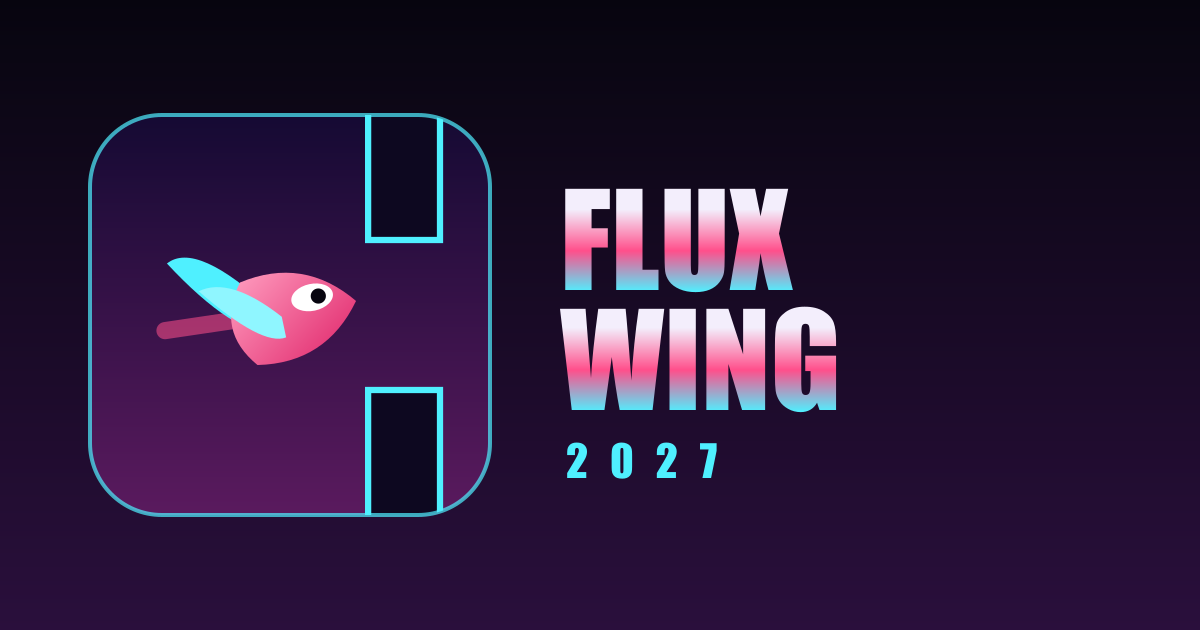
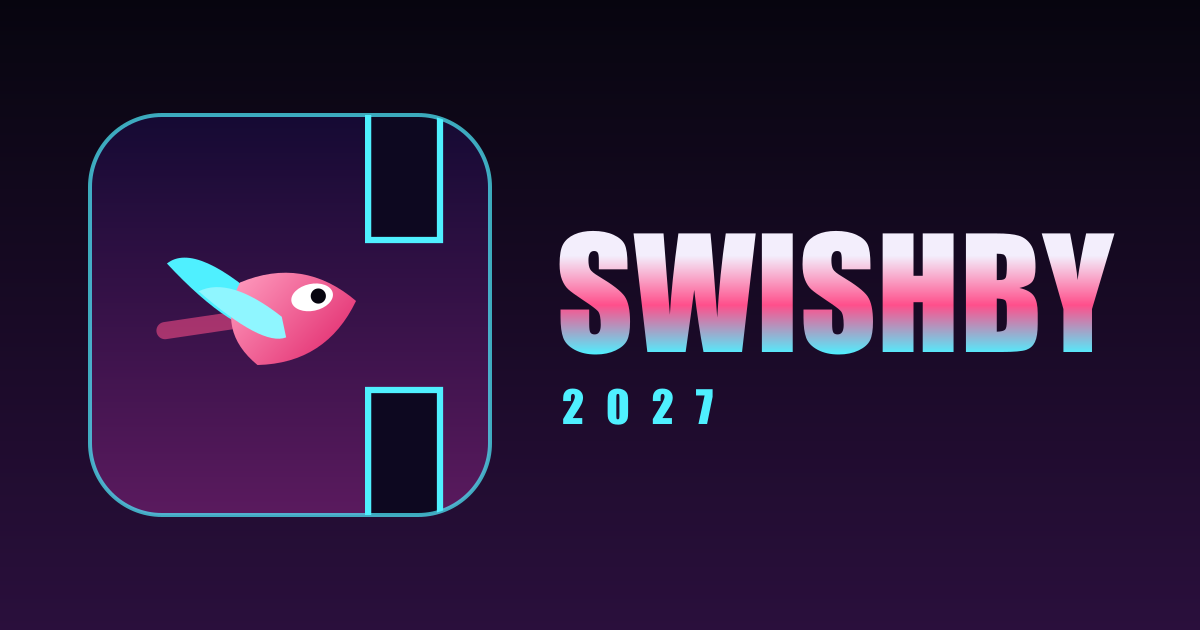
feat: the game is now called SWISHBY
Title logo, page title, share title and image, install name, the canvas label and the pass name in the shop (ko, en, ja) carry the new name. Saved data keys (fw27_*), the daily seed, the Supabase names and the page address are unchanged, so players keep their progress and today's course.

Changed region(s): [[0.4625, 0.3016, 0.925, 0.754]]

diff --git a/index.html b/index.html
@@ -1,12 +1,12 @@
 <!doctype html><html lang="ko"><head><meta charset=utf8><meta name=viewport content="width=device-width,initial-scale=1,viewport-fit=cover"><style>:root{color-scheme:light;box-sizing:border-box;padding-top:env(safe-area-inset-top,0px);padding-bottom:env(safe-area-inset-bottom,0px)}html{scroll-padding-top:env(safe-area-inset-top,0px)}body{margin:0;padding:0;font:14px -apple-system,BlinkMacSystemFont,sans-serif;background:#faf9f5;color:#141413}img{max-width:100%}[hidden]:not([hidden=until-found i]){display:none!important}</style></head><body>
-<title>Flux Wing 2027</title>
+<title>SWISHBY 2027</title>
 <meta name="description" content="탭 한 번으로 나는 원터치 비행 게임. 게이트를 아슬아슬하게 스쳐 콤보를 쌓고, 대시로 뚫고, 랭크 대전과 시즌에 도전하세요.">
 <meta name="theme-color" content="#07050f">
 <link rel="manifest" href="manifest.webmanifest">
 <link rel="icon" href="icon.svg" type="image/svg+xml">
 <link rel="apple-touch-icon" href="apple-touch-icon.png">
 <meta property="og:type" content="website">
-<meta property="og:title" content="Flux Wing 2027">
+<meta property="og:title" content="SWISHBY 2027">
 <meta property="og:description" content="탭 한 번으로 나는 원터치 비행 게임. 스치면 콤보, 차면 대시. 랭크 대전과 시즌.">
 <meta property="og:url" content="https://breton5797.github.io/fluxwing/">
 <meta property="og:image" content="https://breton5797.github.io/fluxwing/og.png">
@@ -122,7 +122,7 @@ select.ghost option{background:#140e26;color:var(--ink)}
 /* menu: logo animation, start button, mode pair */
 .logowrap{position:relative;animation:float 4s ease-in-out infinite}
 .logo{position:relative;background-size:100% 100%}
-.logo::after{content:"FLUX\A WING";white-space:pre;position:absolute;inset:0;background:linear-gradient(105deg,transparent 35%,rgba(255,255,255,.85) 50%,transparent 65%);background-size:250% 100%;-webkit-background-clip:text;background-clip:text;color:transparent;animation:shine 3.2s ease-in-out infinite;pointer-events:none}
+.logo::after{content:"SWISHBY";white-space:pre;position:absolute;inset:0;background:linear-gradient(105deg,transparent 35%,rgba(255,255,255,.85) 50%,transparent 65%);background-size:250% 100%;-webkit-background-clip:text;background-clip:text;color:transparent;animation:shine 3.2s ease-in-out infinite;pointer-events:none}
 .logo-txt{display:block}
 @keyframes shine{0%{background-position:150% 0}60%,100%{background-position:-60% 0}}
 @keyframes float{50%{transform:translateY(-6px)}}
@@ -284,7 +284,7 @@ button.wpill:focus-visible{outline:2px solid var(--cool);outline-offset:2px}
 </style>
 
 <div id="stage">
-  <canvas id="c" aria-label="Flux Wing"></canvas>
+  <canvas id="c" aria-label="SWISHBY"></canvas>
 
   <div class="wallet" id="wallet">
     <span class="wpill" id="wLv">Lv 1 <span class="lvbar"><i id="wXp" style="width:0%"></i></span></span>
@@ -305,7 +305,7 @@ button.wpill:focus-visible{outline:2px solid var(--cool);outline-offset:2px}
 
   <div class="overlay" id="menu">
     <div class="logowrap">
-      <div class="logo">FLUX<br>WING</div>
+      <div class="logo">SWISHBY</div>
       <div class="year">2027</div>
     </div>
     <p class="tag" data-i18n="tag"></p>
@@ -626,13 +626,13 @@ const I18N_D_KEYS = ['r_common','r_epic','r_mythic','r_legendary','r_mochi','r_a
 const I18N_D = {
 ko:['기본','에픽','미식','레전더리','힐링형','철벽형','불사형','암살형',
  '경험치 2배. 가까운 오브를 자동으로 끌어당긴다.','실드 1개를 달고 출발(최대 3개). 게이트 40개마다 실드 1개 재충전.','한 판에 한 번 불꽃 속에서 부활한다. 피버가 7콤보에서 시작된다.','대시 게이지가 가득 찬 채 출발. 대시가 1.5배 길고 대시 관통 점수 2배.',
- '상점','테스트 빌드: 실제 결제 없이 바로 지급됩니다.','플럭스 패스 · 시즌 1','ZERO 유닛 + 젬 150 + 크레딧 2,000 · 4주','스타터 팩','MOCHI + 젬 100 · 첫 7일 한 번만','젬 {n}개','보유 중','체험하기 (오늘 1회)','오늘 체험을 이미 사용했어요','플럭스 패스 전용','재화가 부족해요','{u} 해금!','지급 완료','레벨 업!','획득 보상','체험 중','부활!','오늘의 챌린지에서는 프리미엄 능력이 일부 제한됩니다','구매 완료'],
+ '상점','테스트 빌드: 실제 결제 없이 바로 지급됩니다.','스위시 패스 · 시즌 1','ZERO 유닛 + 젬 150 + 크레딧 2,000 · 4주','스타터 팩','MOCHI + 젬 100 · 첫 7일 한 번만','젬 {n}개','보유 중','체험하기 (오늘 1회)','오늘 체험을 이미 사용했어요','스위시 패스 전용','재화가 부족해요','{u} 해금!','지급 완료','레벨 업!','획득 보상','체험 중','부활!','오늘의 챌린지에서는 프리미엄 능력이 일부 제한됩니다','구매 완료'],
 en:['Common','Epic','Mythic','Legendary','Healer','Fortress','Undying','Assassin',
  'Double XP. Pulls nearby orbs in on its own.','Starts with 1 shield (max 3). Recharges 1 shield every 40 gates.','Rises from the flames once per run. Fever starts at a 7 combo.','Starts with a full dash meter. Dashes last 1.5x longer and score double.',
- 'Shop','Test build: items are granted instantly with no real payment.','Flux Pass · Season 1','ZERO unit + 150 gems + 2,000 credits · 4 weeks','Starter Pack','MOCHI + 100 gems · once, first 7 days','{n} gems','Owned','Try it (1 free run today)','Free run already used today','Flux Pass exclusive','Not enough currency','{u} unlocked!','Granted','LEVEL UP!','Rewards','TRIAL RUN','REBIRTH!','Premium perks are partly limited in the Daily Challenge','Purchased'],
+ 'Shop','Test build: items are granted instantly with no real payment.','Swish Pass · Season 1','ZERO unit + 150 gems + 2,000 credits · 4 weeks','Starter Pack','MOCHI + 100 gems · once, first 7 days','{n} gems','Owned','Try it (1 free run today)','Free run already used today','Swish Pass exclusive','Not enough currency','{u} unlocked!','Granted','LEVEL UP!','Rewards','TRIAL RUN','REBIRTH!','Premium perks are partly limited in the Daily Challenge','Purchased'],
 ja:['ノーマル','エピック','ミシック','レジェンダリー','ヒーラー型','鉄壁型','不死型','暗殺型',
  '経験値2倍。近くのオーブを自動で引き寄せる。','シールド1枚で出発(最大3枚)。ゲート40個ごとに1枚回復。','1プレイに1回、炎の中から復活する。フィーバーが7コンボで始まる。','ダッシュゲージ満タンで出発。ダッシュが1.5倍長く、貫通スコア2倍。',
- 'ショップ','テストビルド:実際の決済なしですぐに付与されます。','フラックスパス · シーズン1','ZEROユニット + ジェム150 + クレジット2,000 · 4週間','スターターパック','MOCHI + ジェム100 · 最初の7日間に1回','ジェム{n}個','所持中','体験する(今日1回)','今日の体験は使用済み','フラックスパス限定','通貨が足りません','{u} 解放!','付与しました','レベルアップ!','獲得報酬','体験中','復活!','デイリーチャレンジではプレミアム能力が一部制限されます','購入済み'],
+ 'ショップ','テストビルド:実際の決済なしですぐに付与されます。','スウィッシュパス · シーズン1','ZEROユニット + ジェム150 + クレジット2,000 · 4週間','スターターパック','MOCHI + ジェム100 · 最初の7日間に1回','ジェム{n}個','所持中','体験する(今日1回)','今日の体験は使用済み','スウィッシュパス限定','通貨が足りません','{u} 解放!','付与しました','レベルアップ!','獲得報酬','体験中','復活!','デイリーチャレンジではプレミアム能力が一部制限されます','購入済み'],
 zh:['普通','史诗','神话','传说','治愈型','铁壁型','不死型','刺客型',
  '经验2倍。自动吸附附近的能量球。','开局自带1层护盾(最多3层)。每通过40个关卡恢复1层。','每局可在烈焰中复活一次。连击7次即进入狂热。','开局冲刺能量全满。冲刺时间1.5倍,冲刺穿越得分翻倍。',
  '商店','测试版本:无需真实付款,立即发放。','通量通行证 · 第1赛季','ZERO机体 + 宝石150 + 信用点2,000 · 4周','新手礼包','MOCHI + 宝石100 · 前7天限购一次','宝石{n}个','已拥有','免费试玩(今日1次)','今日试玩已用完','通行证专属','货币不足','{u} 已解锁!','已发放','升级!','获得奖励','试玩中','涅槃重生!','每日挑战中高级能力会受到部分限制','已购买']

diff --git a/tests/nick.test.js b/tests/nick.test.js
@@ -37,7 +37,7 @@ export const ALLOWED = [
   'kkkkk', 'Jo\u00E3o kkkk', '455', '717', '민수455', 'たろう455', 'Kim 455', 'Mr 717', 'Ana L', 'As U', 'Kike', 'Marica', 'Porras', 'Negre', 'Polla',
   'Blue Tit', "P'tit Loup", 'T\u00EDt', 'Maine Coon', 'Van Dyke', 'Moby Dick', 'Cum Laude', 'DMM', 'Babi', 'Asu', 'Siriporn', 'Romanko', 'Retardataire',
   'パチンコ', 'ぱちんこ', 'Pachinko', '妈妈的宝贝', '媽媽的愛', '아저씨바보', '한강간다',
-  'Pilot', 'Pilot-7175', 'Pilot-4552', 'AI 1', 'AI', '—', 'Flux Wing', 'xX_Ace_Xx', 'Player1', 'b1g b1rd', 'N0va',
+  'Pilot', 'Pilot-7175', 'Pilot-4552', 'AI 1', 'AI', '—', 'Flux Wing', 'Swishby', 'SWISHBY', 'xX_Ace_Xx', 'Player1', 'b1g b1rd', 'N0va',
   // innocent words that hold a refused one
   'class', 'bass', 'assassin', 'Cockpit', 'peacock', 'Hancock', 'Dickens', 'grape', 'Essex', 'sexy', 'spicy',
   'cucumber', 'analog', 'raccoon', 'torpedo', 'nightwatch', 'Nazir', 'therapist', 'Matsushita', 'Yamashita',
